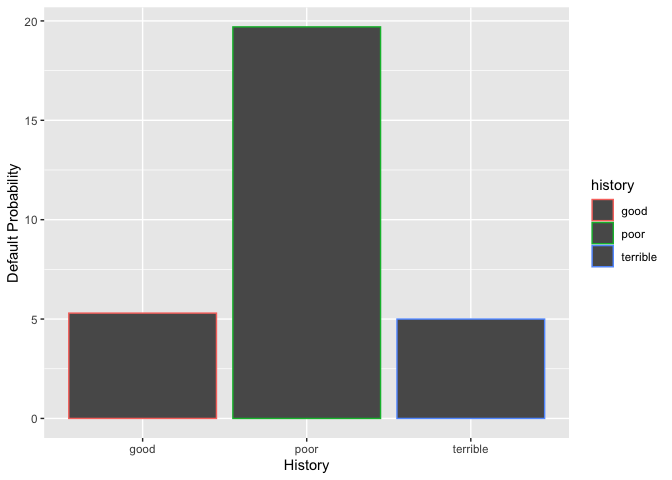
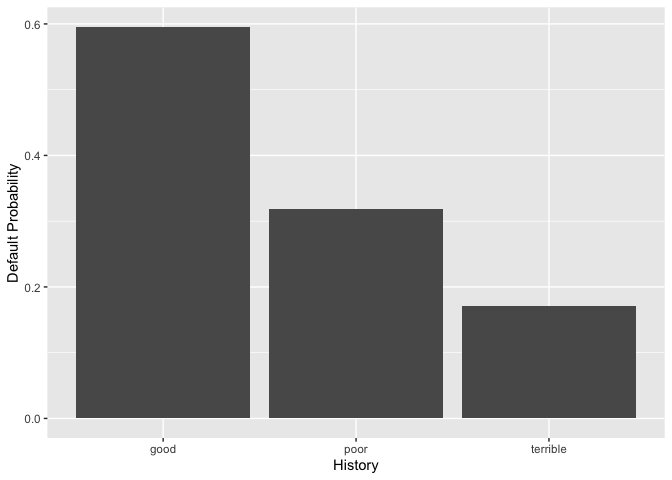
HW2

diff --git a/HW2.md b/HW2.md
@@ -23,21 +23,21 @@ compared to weekday.
 
 ## Problem 2: Saratoga house prices
 
-    ## [1] 59672.64
+    ## [1] 62429.63
 
-    ## [1] 52804.29
+    ## [1] 56260.38
 
-    ## [1] 61775.84 52349.51 64620.32 58118.20 56069.33
+    ## [1] 54962.86 63113.85 56724.86 61696.41 56823.13
 
-    ## [1] 58586.64
+    ## [1] 58664.22
 
-    ## [1] 2145.163
+    ## [1] 1578.672
 
-    ## [1] 67153.18
+    ## [1] 66168.8
 
-    ## [1] 67153.18 67153.18 67153.18 67153.18 67153.18
+    ## [1] 66168.8 66168.8 66168.8 66168.8 66168.8
 
-    ## [1] 67153.18
+    ## [1] 66168.8
 
     ## [1] 0
 
@@ -51,16 +51,21 @@ compared to weekday.
 ## Problem 3: Classification and retrospective sampling
 
     ##         (Intercept)            duration              amount         installment 
-    ##               -0.46                0.03                0.00                0.18 
+    ##               -0.47                0.02                0.00                0.18 
     ##                 age         historypoor     historyterrible          purposeedu 
-    ##               -0.02               -1.11               -1.85                0.74 
+    ##               -0.02               -1.12               -1.93                0.69 
     ## purposegoods/repair       purposenewcar      purposeusedcar       foreigngerman 
-    ##                0.05                0.87               -0.74               -1.34
+    ##               -0.05                0.90               -0.86               -1.07
 
     ##    yhat
     ## y     0   1
-    ##   0 127  13
-    ##   1  42  18
+    ##   0 133  11
+    ##   1  39  17
+
+    ##    history default_prob_each_history
+    ## 1 terrible                 0.1706485
+    ## 2     poor                 0.3187702
+    ## 3     good                 0.5955056
 
 ![](HW2_files/figure-markdown_github/unnamed-chunk-9-1.png) \* We find
 that having terrible history has lower probability of default than
@@ -74,9 +79,9 @@ model of defaults. The bank should use random sample.
 
 |             |      rmse |
 |:------------|----------:|
-| small model | 3.1199363 |
-| big model   | 0.2333702 |
-| best model  | 0.2331322 |
+| small model | 3.1208586 |
+| big model   | 0.2332731 |
+| best model  | 0.2330139 |
 
 -   rmse for big model and best model are almost identical. While rmse
     for small model is a lot larger.
@@ -86,28 +91,28 @@ model of defaults. The bank should use random sample.
     ## # A tibble: 1 x 3
     ##   model      true_pos_rate false_pos_rate
     ##   <chr>              <dbl>          <dbl>
-    ## 1 best hotel         0.915          0.466
+    ## 1 best hotel         0.913          0.459
 
 ![](HW2_files/figure-markdown_github/unnamed-chunk-14-1.png)
 
     ##        expected actual difference
-    ## Fold01 21.68983 23     2         
-    ## Fold02 18.36557 11     -7        
-    ## Fold03 21.02109 18     -3        
-    ## Fold04 20.72888 21     1         
-    ## Fold05 20.75398 23     3         
-    ## Fold06 24.50177 26     2         
-    ## Fold07 21.83382 21     0         
-    ## Fold08 22.79942 21     -1        
-    ## Fold09 18.24368 20     2         
-    ## Fold10 18.80703 22     4         
-    ## Fold11 22.39199 17     -5        
-    ## Fold12 24.66766 20     -4        
-    ## Fold13 22.56924 23     1         
-    ## Fold14 22.30824 26     4         
-    ## Fold15 22.23326 17     -5        
-    ## Fold16 22.1752  25     3         
-    ## Fold17 18.73235 16     -2        
-    ## Fold18 19.46863 17     -2        
-    ## Fold19 18.86198 19     1         
-    ## Fold20 20.34668 16     -4
+    ## Fold01 24.83135 23     -1        
+    ## Fold02 17.21128 22     5         
+    ## Fold03 20.70848 20     0         
+    ## Fold04 21.22225 23     2         
+    ## Fold05 16.99855 15     -1        
+    ## Fold06 24.85438 20     -4        
+    ## Fold07 21.33337 18     -3        
+    ## Fold08 22.71525 27     5         
+    ## Fold09 20.99187 22     2         
+    ## Fold10 16.89263 21     5         
+    ## Fold11 22.38434 20     -2        
+    ## Fold12 20.28594 21     1         
+    ## Fold13 17.83574 16     -1        
+    ## Fold14 23.07862 20     -3        
+    ## Fold15 18.83313 14     -4        
+    ## Fold16 25.52639 28     3         
+    ## Fold17 22.89701 23     1         
+    ## Fold18 20.90121 18     -2        
+    ## Fold19 21.18726 14     -7        
+    ## Fold20 21.73912 17     -4
